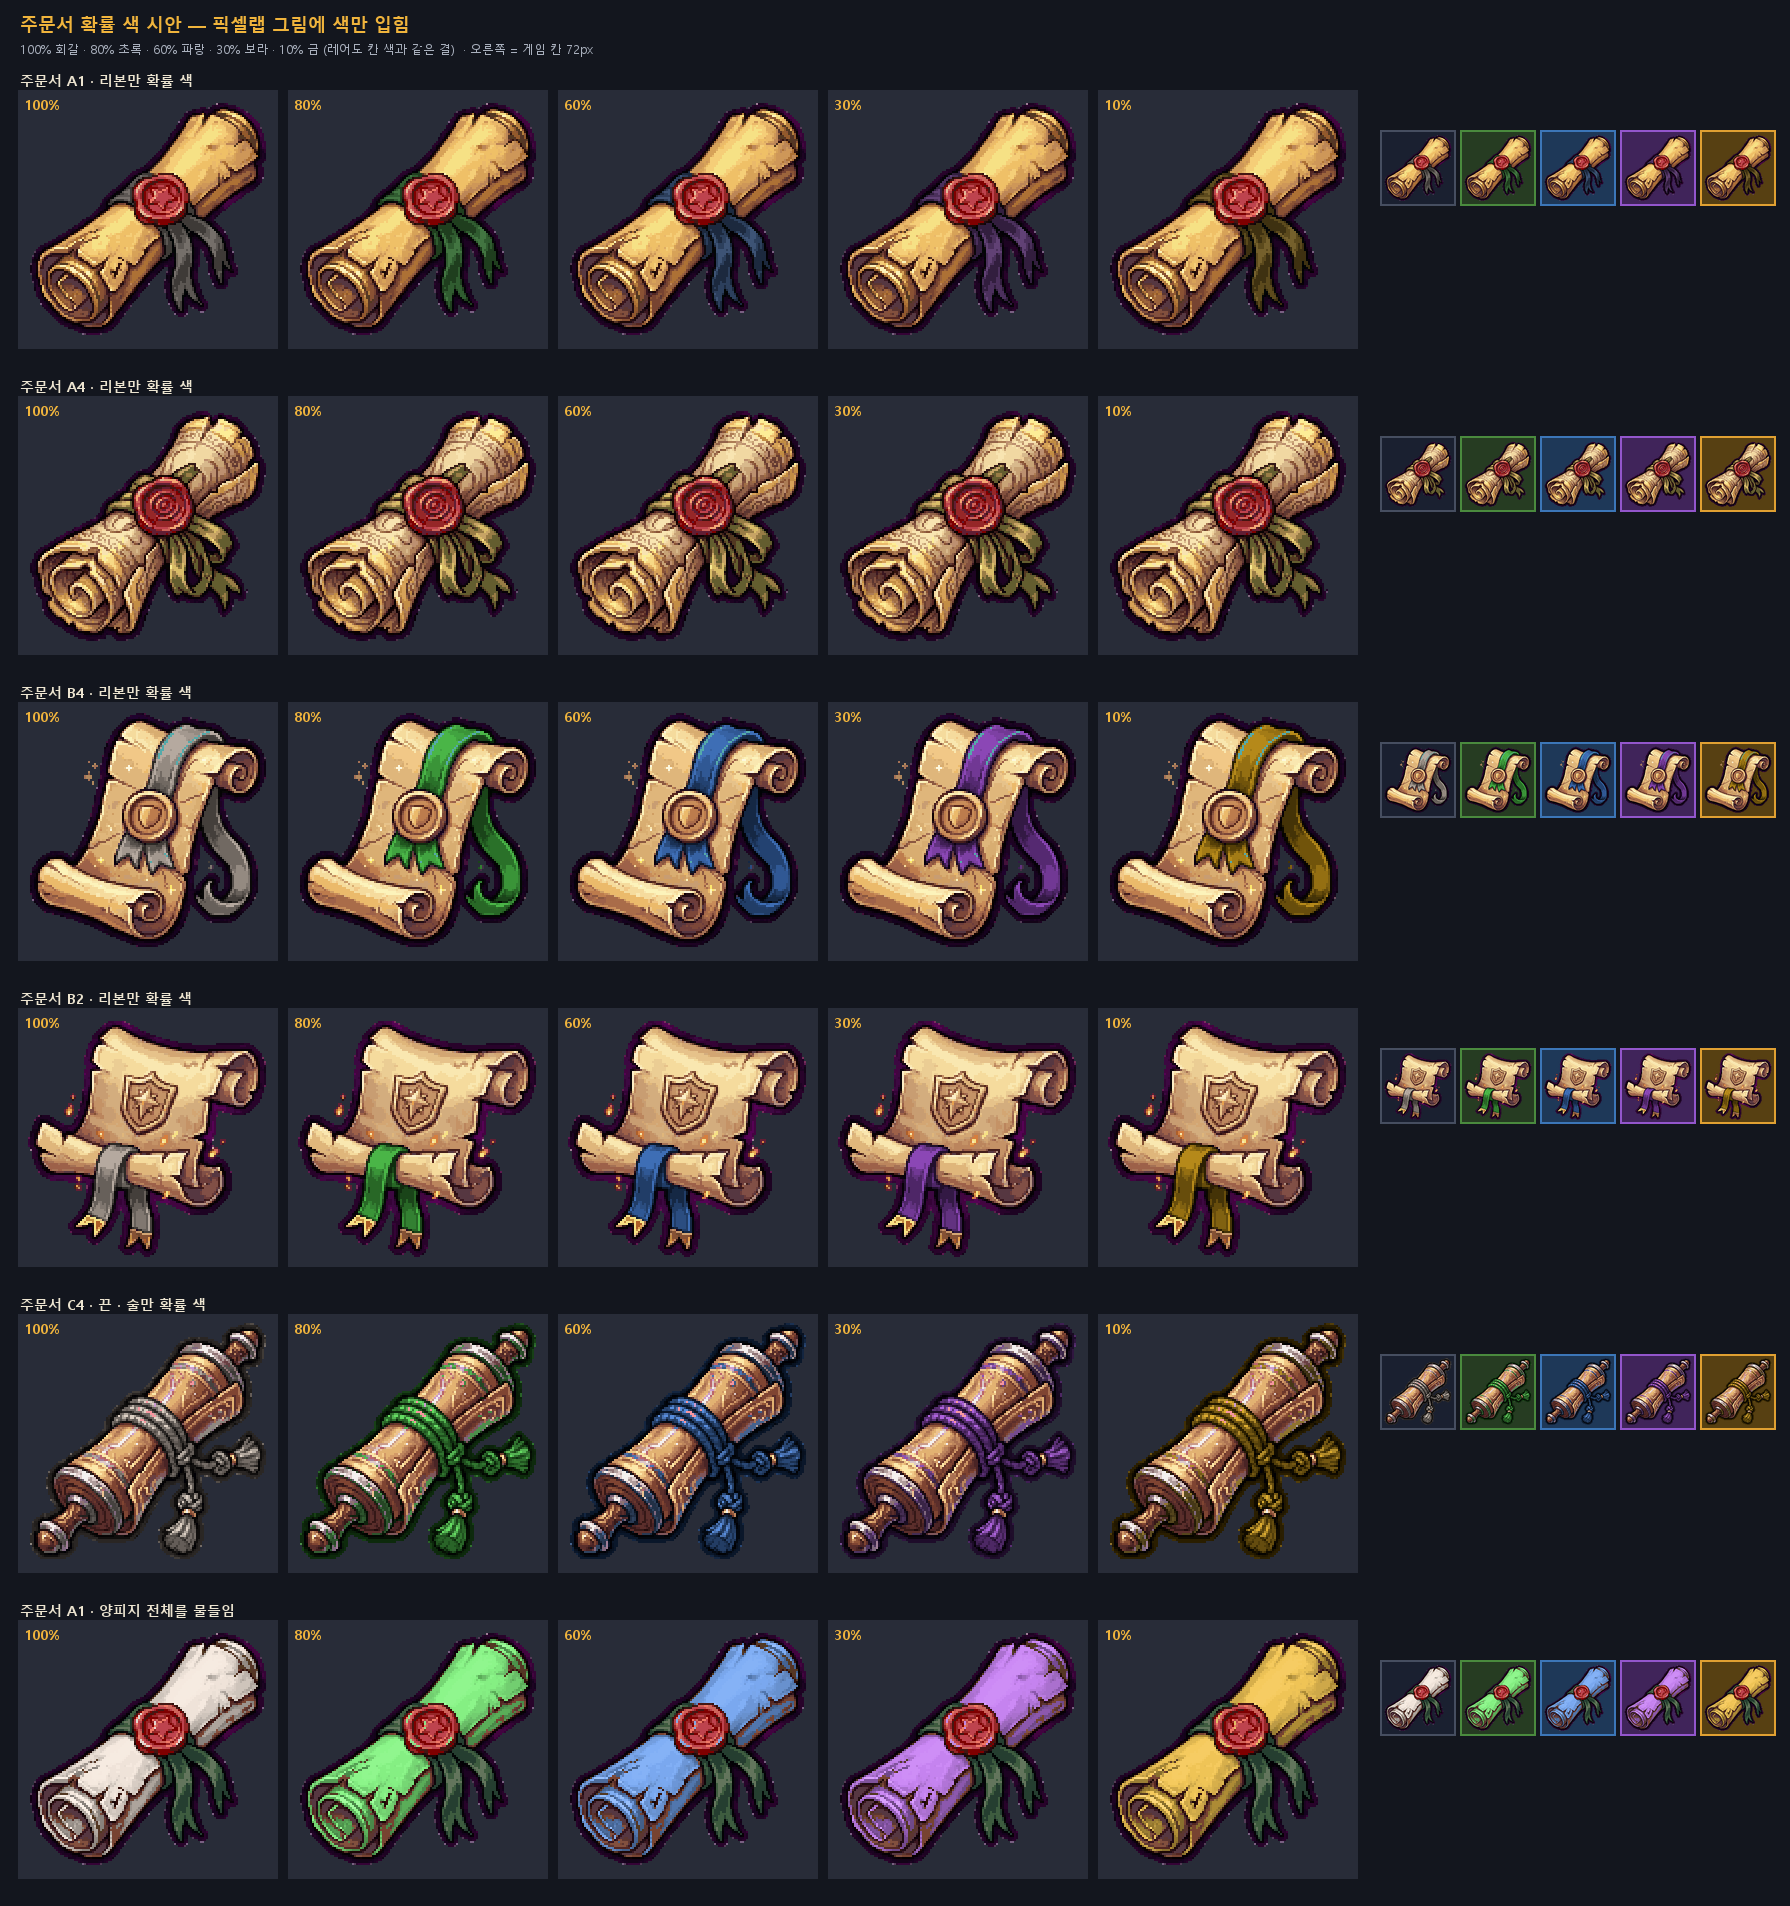
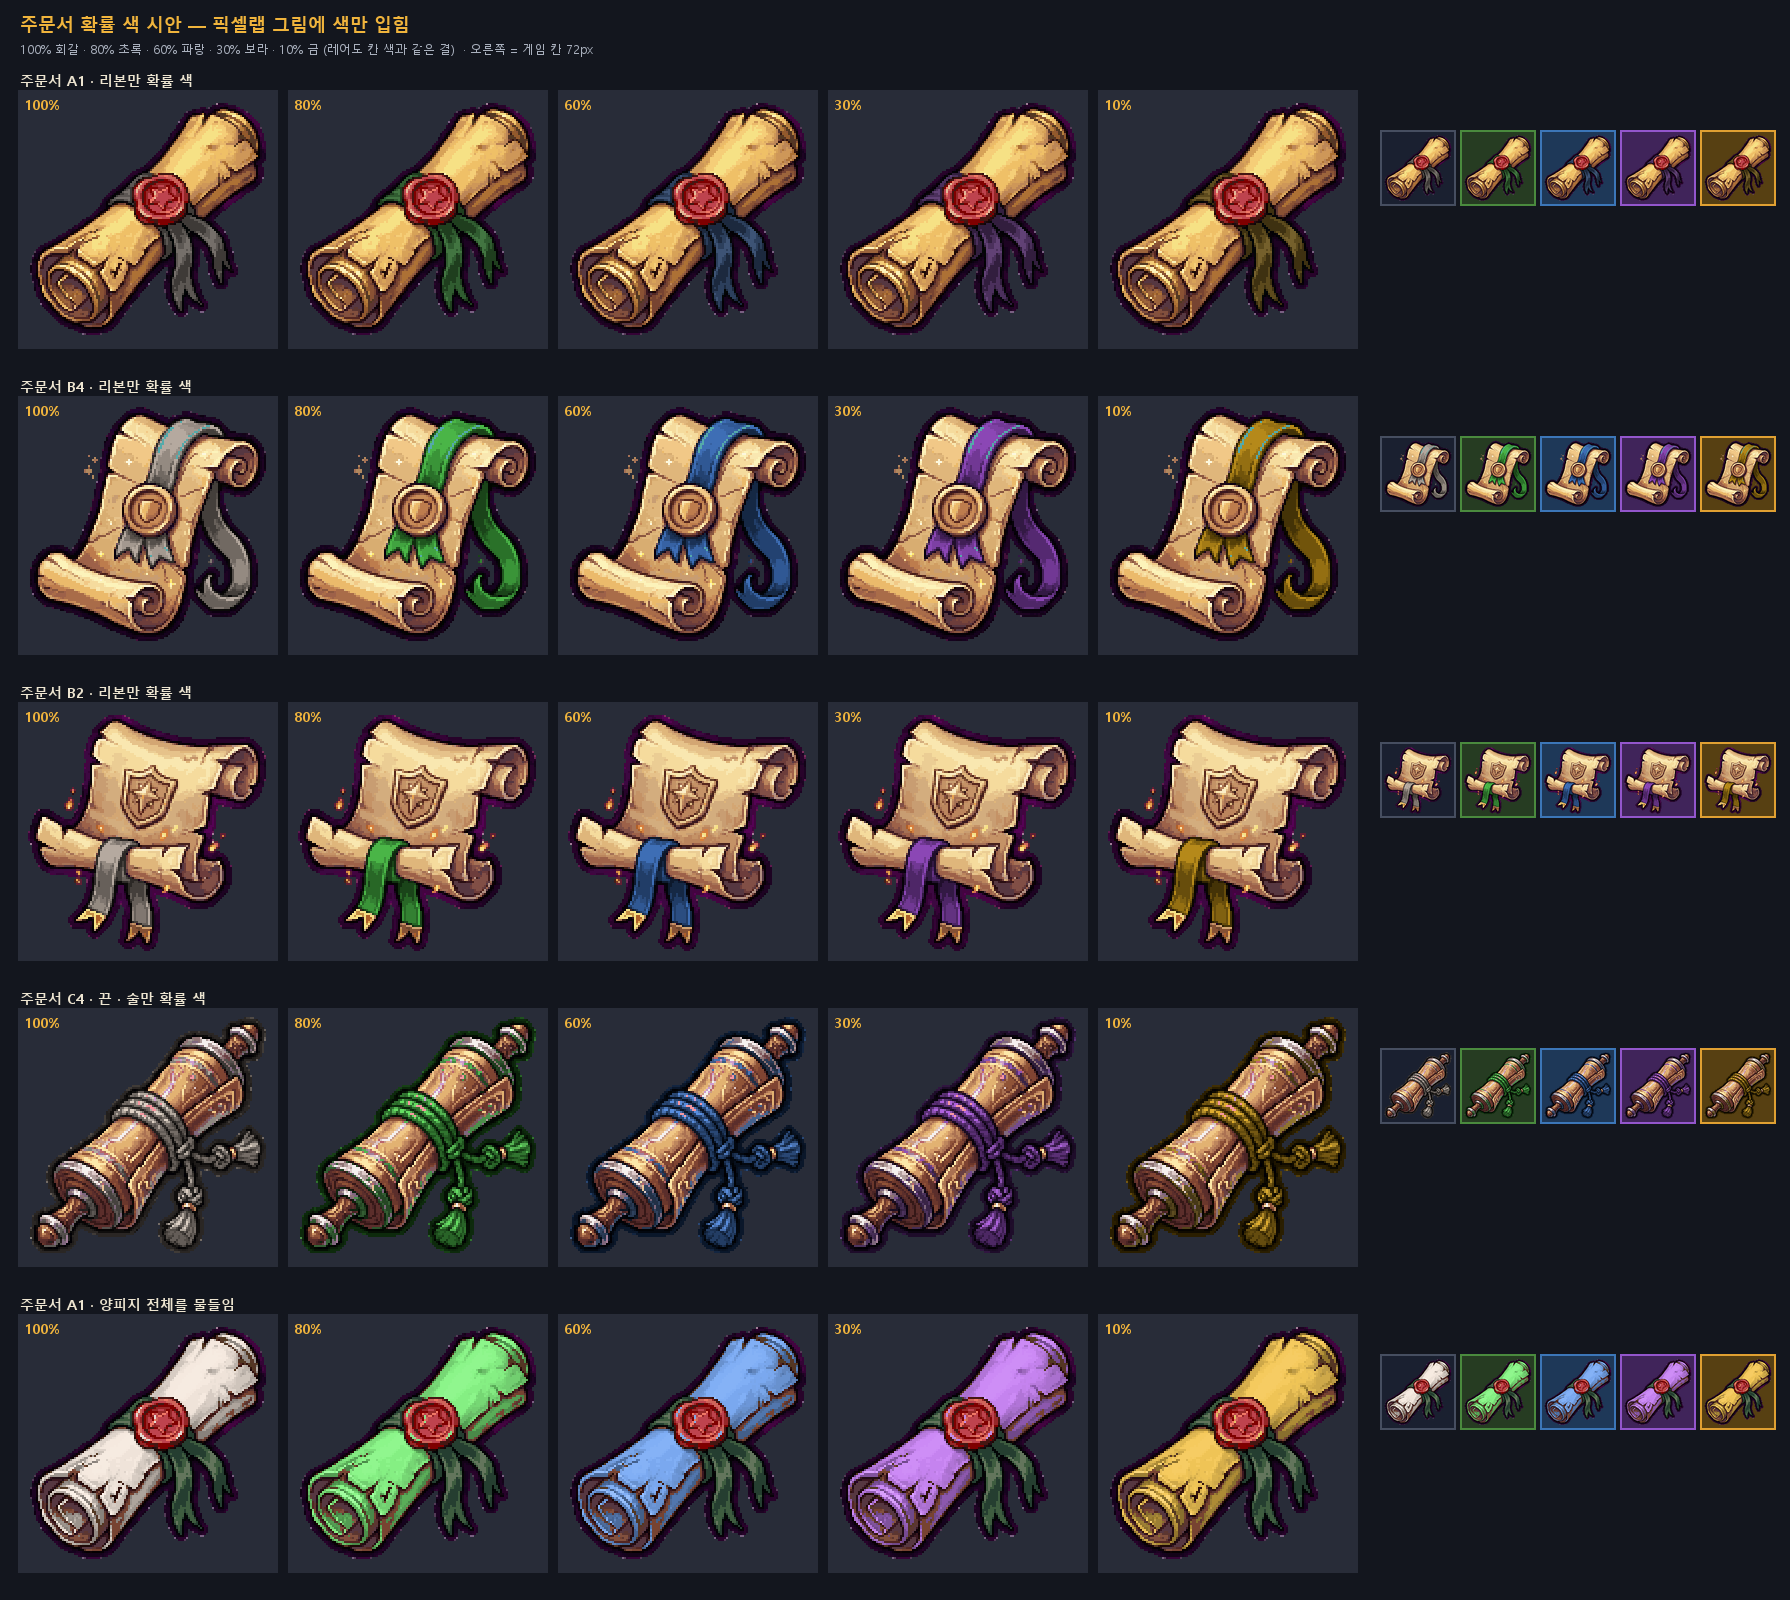
주문서 확률 색 시안: 색이 안 바뀐 줄 뺌
Claude-Session: https://claude.ai/code/session_01WLiZx34epMs3AjWHK4vuZu

diff --git a/tools/saved/scrollart78/px/rates.py b/tools/saved/scrollart78/px/rates.py
@@ -31,7 +31,7 @@ def tint(src, hue, sat):   # 양피지(누런 칸)를 그 색으로
 ribbon_green = lambda h, s, v: (h > 0.2) & (h < 0.48) & (s > 0.2)
 ribbon_blue = lambda h, s, v: (h > 0.52) & (h < 0.72) & (s > 0.3)
 ribbon_purple = lambda h, s, v: (h > 0.72) & (h < 0.95) & (s > 0.25)
-ROWS = [('s_seal_0', ribbon_green, '주문서 A1 · 리본만 확률 색'), ('s_seal_3', ribbon_green, '주문서 A4 · 리본만 확률 색'),
+ROWS = [('s_seal_0', ribbon_green, '주문서 A1 · 리본만 확률 색'),
         ('s_open_3', ribbon_blue, '주문서 B4 · 리본만 확률 색'), ('s_open_1', ribbon_blue, '주문서 B2 · 리본만 확률 색'),
         ('s_rods_3', ribbon_purple, '주문서 C4 · 끈 · 술만 확률 색'), ('s_seal_0', None, '주문서 A1 · 양피지 전체를 물들임')]
 S = 2; cw = 128 * S + 14
